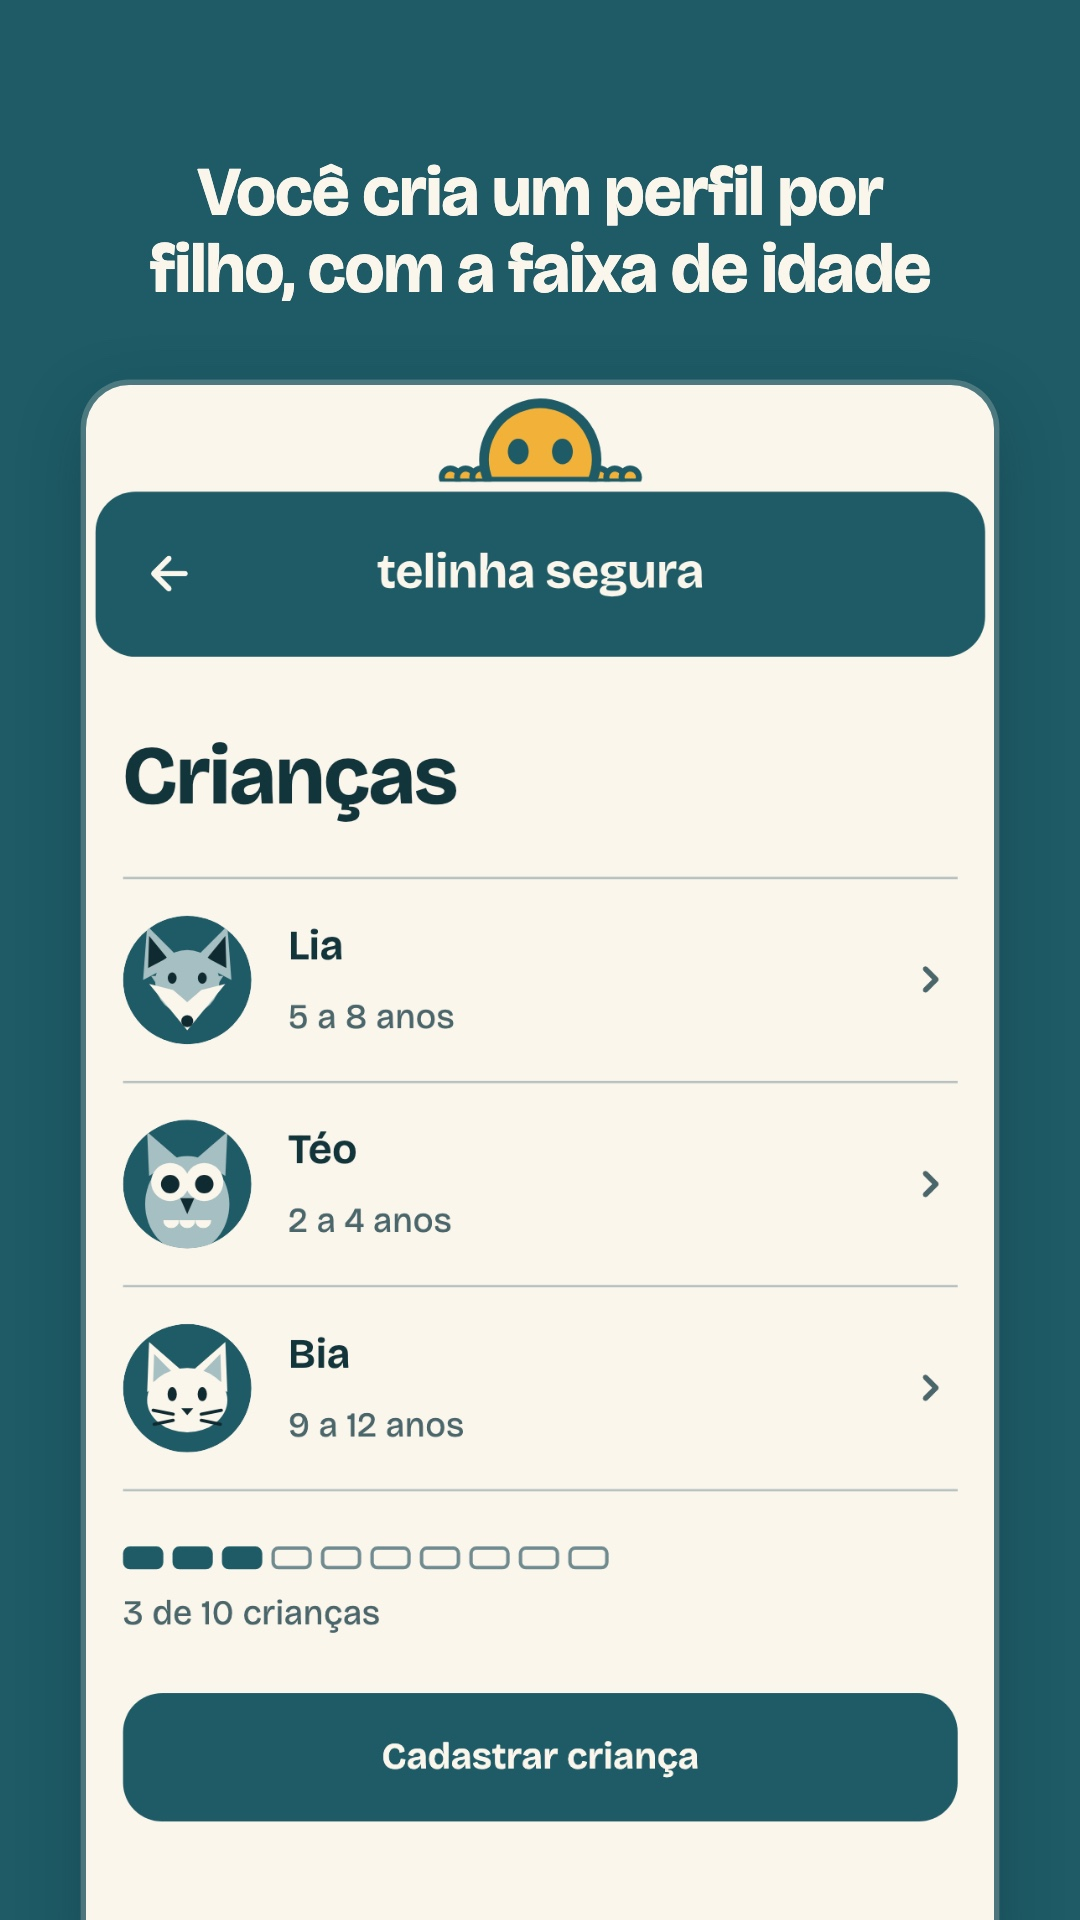
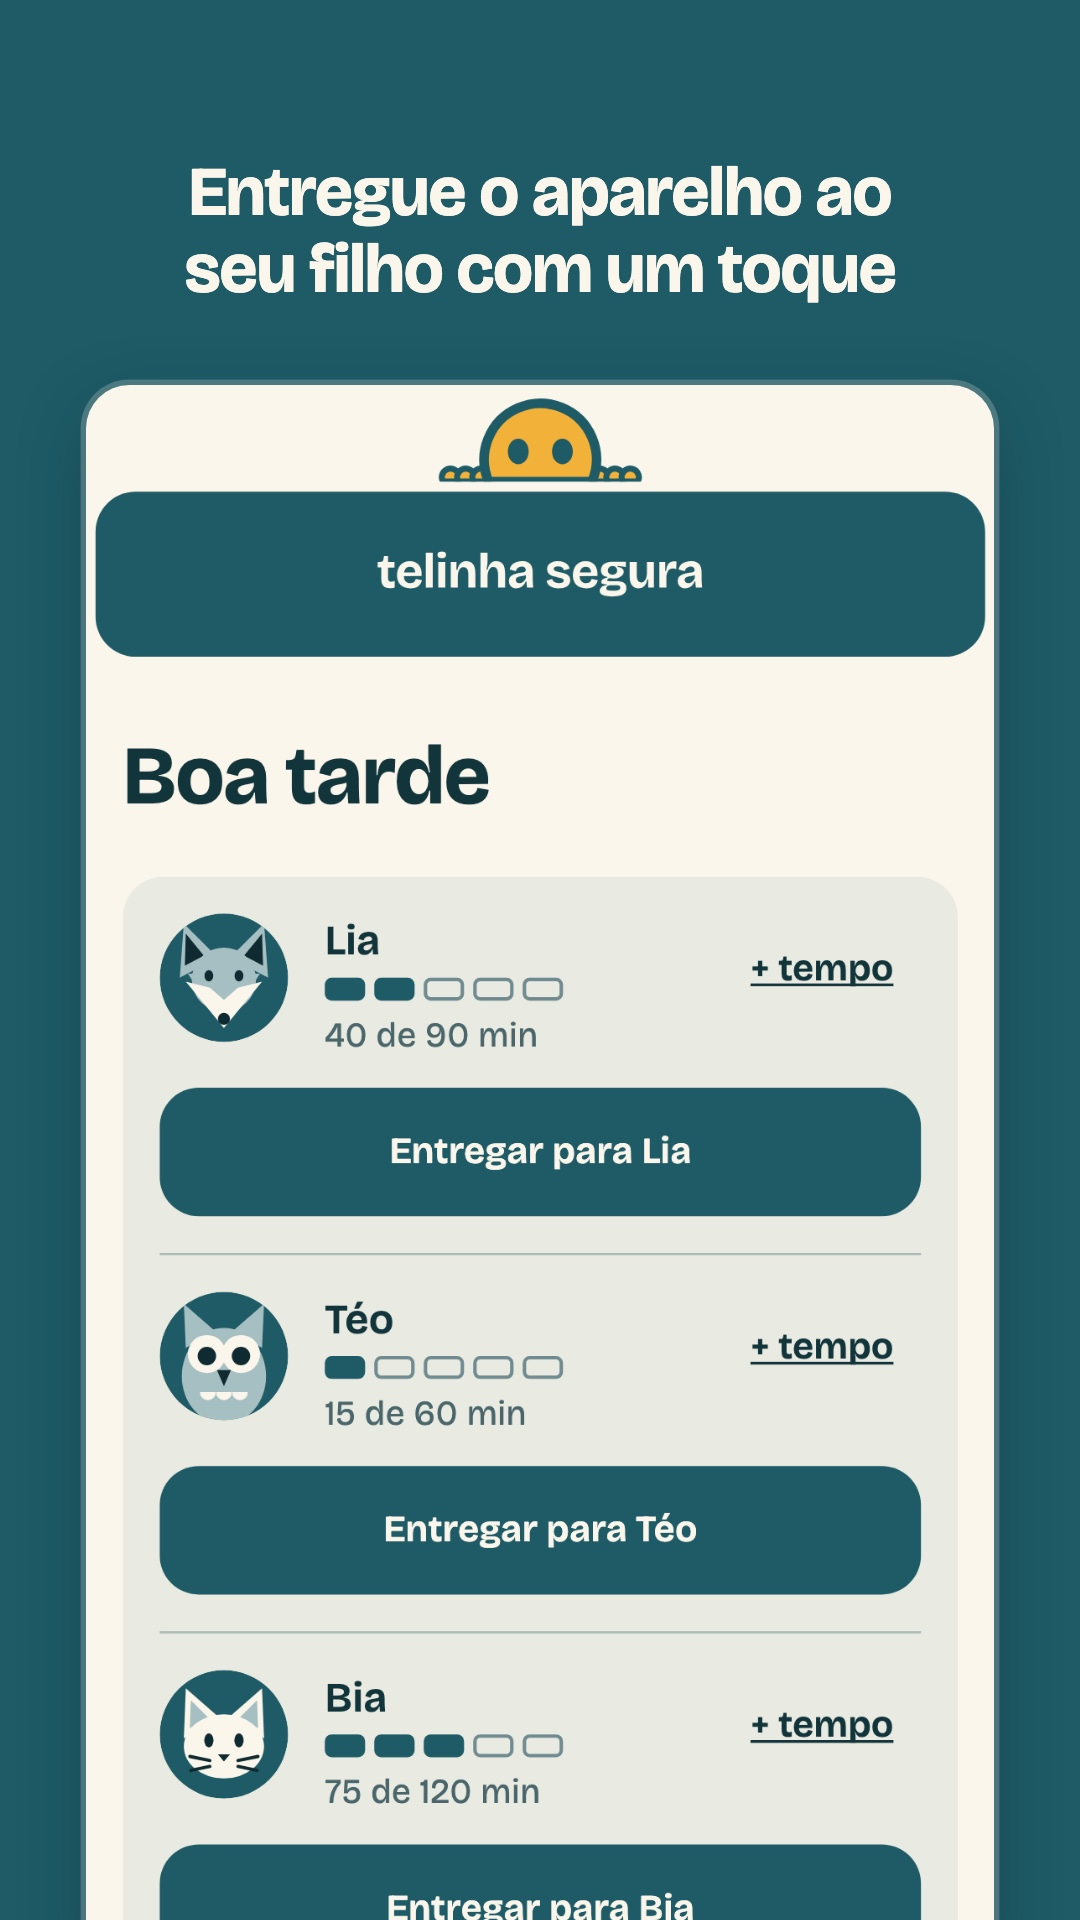
chore(app): show Início and a child's page in the store screenshots
Frame 04 now shows the home, each child's time today with the hand-over
one tap away; frame 07 a child's page, opening on the day. The frames
keep to screens with no video thumbnails, and the home greets at a fixed
hour so every run renders the same.

diff --git a/app/test/store_screens/store_screens_test.dart b/app/test/store_screens/store_screens_test.dart
@@ -5,6 +5,7 @@ import 'dart:async';
 import 'dart:io';
 import 'dart:ui' as ui;
 
+import 'package:clock/clock.dart';
 import 'package:flutter/foundation.dart';
 import 'package:flutter/material.dart';
 import 'package:flutter/rendering.dart';
@@ -16,9 +17,8 @@ import 'package:telinha_segura/family/family.dart';
 import 'package:telinha_segura/family/labels.dart';
 
 import '../access/harness.dart';
-import '../catalog/fixtures.dart';
 import '../family/fixtures.dart';
-import '../kid_mode/devices_screen_test.dart' show device;
+import '../family/child_page_test.dart' show pageApi;
 import '../screentime/fixtures.dart';
 
 /// A device the stores ask screenshots of: its screen in logical pixels,
@@ -196,26 +196,48 @@ void main() {
         ..family = demoFamily;
       await h.pump(tester, initial: '/crianca/sair', size: size);
     }),
-    // One row per child, the age band in words.
-    Frame('04', ['5 a 8 anos', '2 a 4 anos', 'Bia'], (tester, size) async {
-      final h = Harness(signedIn: true, api: catalogApi())..family = demoFamily;
-      await h.pump(tester, initial: '/familia/criancas', size: size);
+    // Início: each child's time today and the hand-over, one tap away.
+    Frame('04', ['Entregar para Lia', 'Téo', 'Bia'], (tester, size) async {
+      final h =
+          Harness(
+              signedIn: true,
+              api: screenTimeApi(
+                rules: {
+                  'm1': () => json(200, rulesJson()),
+                  'm2': () => json(
+                    200,
+                    rulesJson(dailyMinutes: 60, usedSeconds: 15 * 60),
+                  ),
+                  'm3': () => json(
+                    200,
+                    rulesJson(dailyMinutes: 120, usedSeconds: 75 * 60),
+                  ),
+                },
+              ),
+            )
+            ..family = demoFamily
+            ..pinSet = true;
+      await h.pump(tester, initial: '/', size: size);
     }),
-    // The devices linked to each child.
-    Frame('07', ['Tablet da Lia', 'Celular do Téo', 'Tablet da Bia'], (
+    // Lia's page, opening on her day; the frame ends above her videos, so
+    // no channel's thumbnail shows.
+    Frame('07', ['Lia', 'Hoje', 'Mais tempo hoje', 'Limite e horário'], (
       tester,
       size,
     ) async {
-      final h = Harness(signedIn: true, api: (_) => http.Response('', 204))
-        ..family = demoFamily
-        ..pinSet = true;
-      h.linkedDevices = [
-        device('d1', 'Tablet da Lia', 'm1'),
-        device('d2', 'Celular do Téo', 'm2', daysAgo: 1),
-        device('d3', 'Tablet da Bia', 'm3'),
-      ];
-      unawaited(h.services.familyModel.load());
-      await h.pump(tester, initial: '/modo-crianca/aparelhos', size: size);
+      late final Harness h;
+      h =
+          Harness(
+              signedIn: true,
+              // A lived-in week, today's 40 minutes first.
+              api: pageApi(
+                () => h,
+                usage: () => json(200, usageJson([40, 70, 55, 30, 85, 60, 45])),
+              ),
+            )
+            ..family = demoFamily
+            ..pinSet = true;
+      await h.pump(tester, initial: '/familia/criancas/m1', size: size);
     }),
     // The consent the guardian reads before a child's profile exists.
     Frame('08', ['apelido', 'avatar', 'faixa de idade', 'Nada de foto'], (
@@ -238,9 +260,12 @@ void main() {
       testWidgets('store frame ${f.number} on ${p.name}', (tester) async {
         debugDefaultTargetPlatformOverride = p.platform;
         try {
-          await f.open(tester, p.logical);
-          await tester.pumpAndSettle();
-          await capture(tester, p, f);
+          // A fixed afternoon, so the home greets the same way on every run.
+          await withClock(Clock.fixed(DateTime(2026, 11, 10, 15)), () async {
+            await f.open(tester, p.logical);
+            await tester.pumpAndSettle();
+            await capture(tester, p, f);
+          });
         } finally {
           debugDefaultTargetPlatformOverride = null;
         }
